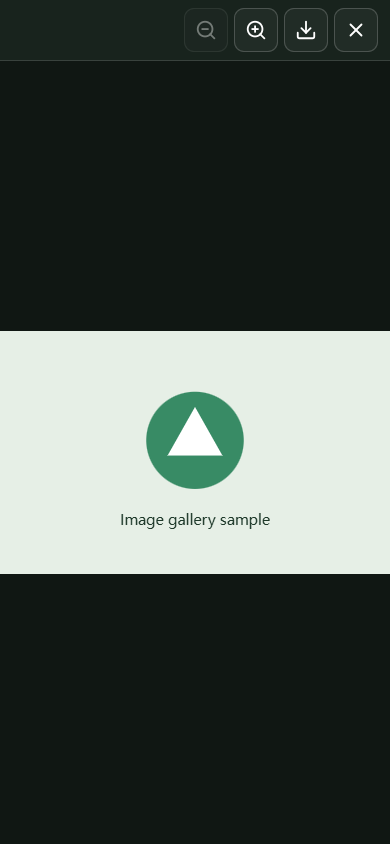
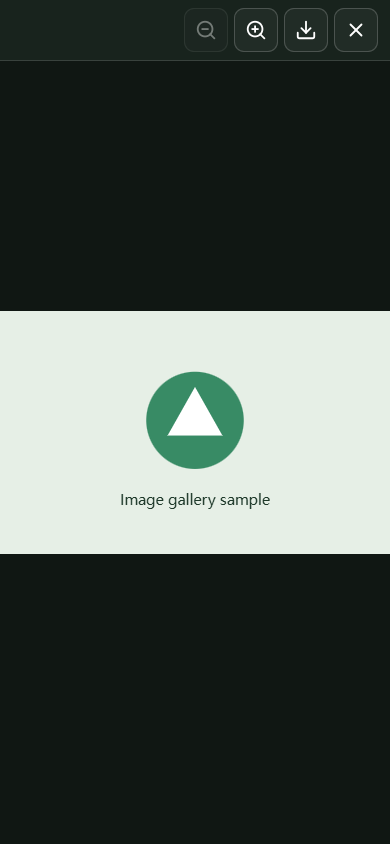
Separate speed markers and keep image controls outside the full viewport

Changed region(s): [[0.0, 0.4313, 1.0, 0.6777], [0.0, 0.3697, 1.0, 0.4005]]

diff --git a/src/lightbox.js b/src/lightbox.js
@@ -19,7 +19,7 @@ export function mountImage(image,{labels={},original=()=>image.dataset.original|
   const feedback=mediaFeedback(full,()=>{status.hidden=false;full.removeAttribute('src');full.src=source.href;},text);
   full.addEventListener('load',()=>{if(closed)return;status.hidden=true;feedback.ready();update();},{signal:events.signal});
   full.addEventListener('error',()=>{if(closed)return;status.hidden=true;feedback.failed('imageUnavailable');},{signal:events.signal});
-  full.loading='eager';full.decoding='async';full.src=source.href;
+  full.loading='eager';full.decoding='auto';full.src=source.href;
   function update(){if(scale===1)x=y=0;const ratio=(full.naturalWidth||image.naturalWidth||frame.clientWidth)/(full.naturalHeight||image.naturalHeight||frame.clientHeight),width=Math.min(frame.clientWidth,frame.clientHeight*ratio),height=width/ratio,maxX=Math.max(0,(width*scale-frame.clientWidth)/2),maxY=Math.max(0,(height*scale-frame.clientHeight)/2);maxScale=Math.max(6,(full.naturalWidth||image.naturalWidth||width)/width);x=Math.max(-maxX,Math.min(maxX,x));y=Math.max(-maxY,Math.min(maxY,y));for(const photo of frame.querySelectorAll('.image-lightbox-photo'))photo.style.transform=`translate(${x}px,${y}px) scale(${scale})`;frame.classList.toggle('is-zoomed',scale>1);out.disabled=scale===1;inside.disabled=scale>=maxScale;}
   function zoom(value){scale=Math.max(1,Math.min(maxScale,value));update();}
   frame.addEventListener('dblclick',()=>zoom(scale===1?2:1),{signal:events.signal});
@@ -27,8 +27,9 @@ export function mountImage(image,{labels={},original=()=>image.dataset.original|
   frame.addEventListener('pointerdown',event=>{if(event.target.closest('button'))return;pointers.set(event.pointerId,{x:event.clientX,y:event.clientY});frame.setPointerCapture(event.pointerId);distance=0;},{signal:events.signal});
   frame.addEventListener('pointermove',event=>{const previous=pointers.get(event.pointerId);if(!previous)return;pointers.set(event.pointerId,{x:event.clientX,y:event.clientY});if(pointers.size===2){const [a,b]=[...pointers.values()],current=Math.hypot(a.x-b.x,a.y-b.y);if(distance)zoom(scale*current/distance);distance=current;}else if(scale>1){x+=event.clientX-previous.x;y+=event.clientY-previous.y;update();}},{signal:events.signal});
   for(const name of ['pointerup','pointercancel'])frame.addEventListener(name,event=>{pointers.delete(event.pointerId);distance=0;},{signal:events.signal});
-  const cleanup=()=>{if(closed)return;closed=true;events.abort();full.removeAttribute('src');modal.remove();document.body.style.overflow=previousOverflow;document.documentElement.style.scrollbarGutter=previousGutter;if(trigger.isConnected)trigger.focus();if(close===cleanup)close=()=>{};};close=cleanup;
-  modal.addEventListener('close',cleanup,{once:true});window.addEventListener('resize',update,{signal:events.signal});update();
+  const resize=new ResizeObserver(update);resize.observe(frame);
+  const cleanup=()=>{if(closed)return;closed=true;events.abort();resize.disconnect();full.removeAttribute('src');modal.remove();document.body.style.overflow=previousOverflow;document.documentElement.style.scrollbarGutter=previousGutter;if(trigger.isConnected)trigger.focus();if(close===cleanup)close=()=>{};};close=cleanup;
+  modal.addEventListener('close',cleanup,{once:true});window.addEventListener('resize',update,{signal:events.signal});window.visualViewport?.addEventListener('resize',update,{signal:events.signal});update();
   modal.addEventListener('keydown',event=>{if(event.key!=='Tab')return;const targets=[...modal.querySelectorAll('button:not(:disabled),a[href]')].filter(node=>node.getClientRects().length);const first=targets[0],last=targets.at(-1);if(event.shiftKey&&document.activeElement===first){event.preventDefault();last?.focus();}else if(!event.shiftKey&&document.activeElement===last){event.preventDefault();first?.focus();}},{signal:events.signal});
  }
  trigger.addEventListener('click',event=>{event.preventDefault();open();},{signal});

diff --git a/src/lightbox.css b/src/lightbox.css
@@ -5,7 +5,7 @@
 .image-zoomable{cursor:zoom-in}.image-zoomable:focus-visible{outline:3px solid #388b65;outline-offset:-3px}
 a:focus-visible>.image-zoomable{outline:3px solid #388b65;outline-offset:-3px}
 .image-lightbox{position:fixed;inset:0;width:100vw;height:100dvh;max-width:none;max-height:none;margin:0;border:0;border-radius:0;padding:0;background:#101713;color:#fff;overflow:hidden;box-sizing:border-box}
-.image-lightbox[open]{display:grid;grid-template-rows:auto minmax(0,1fr)}.image-lightbox::backdrop{background:#000d}
+.image-lightbox[open]{display:grid;grid-template-rows:auto minmax(0,1fr) auto}.image-lightbox::backdrop{background:#000d}
 .image-lightbox-toolbar{display:flex;align-items:center;gap:6px;padding:8px max(12px,env(safe-area-inset-right)) 8px max(12px,env(safe-area-inset-left));border-bottom:1px solid #ffffff24;background:#18231d;z-index:1}
 .image-lightbox-title{flex:1;min-width:0;white-space:nowrap;overflow:hidden;text-overflow:ellipsis;font:500 14px system-ui}
 .image-lightbox-toolbar button,.image-lightbox-save{display:grid;place-items:center;width:44px;height:44px;min-width:44px;min-height:44px;flex-shrink:0;border:1px solid #ffffff30;background:#ffffff0a;color:white;border-radius:10px;padding:0;font:24px system-ui;cursor:pointer;text-decoration:none;box-sizing:border-box}
@@ -13,7 +13,8 @@ a:focus-visible>.image-zoomable{outline:3px solid #388b65;outline-offset:-3px}
 .image-lightbox-toolbar svg,.media-feedback-icon svg{width:22px;height:22px;pointer-events:none}
 .image-lightbox-toolbar button:disabled{opacity:.4;cursor:default}
 .image-lightbox-frame{position:relative;overflow:hidden;display:grid;place-items:center;touch-action:none;min-width:0;min-height:0;cursor:zoom-in}.image-lightbox-frame.is-zoomed{cursor:grab}.image-lightbox-frame.is-zoomed:active{cursor:grabbing}
-.image-lightbox-photo{display:block;position:absolute;width:100%;height:100%;object-fit:contain;max-width:none;max-height:none;transform-origin:center;user-select:none}
+.image-lightbox .image-lightbox-photo{display:block;position:absolute;inset:0;width:100%;height:100%;object-fit:contain;object-position:center;box-sizing:border-box;margin:0;padding:0;border:0;max-width:none;max-height:none;transform-origin:center;user-select:none}
 .image-lightbox-frame .media-feedback{position:relative;z-index:1;max-width:360px;margin:20px}
-.image-lightbox-status{position:absolute;left:50%;bottom:max(20px,env(safe-area-inset-bottom));transform:translateX(-50%);padding:8px 16px;border-radius:20px;background:#101713cc;color:white;font:14px system-ui;pointer-events:none}
+.image-lightbox-status{display:block;min-height:40px;margin:0;padding:8px 16px max(8px,env(safe-area-inset-bottom));text-align:center;box-sizing:border-box;color:white;font:14px/24px system-ui;pointer-events:none}
+.image-lightbox .image-lightbox-status[hidden]{display:block!important;visibility:hidden}
 @media(max-width:480px){.image-lightbox-title{display:none}.image-lightbox-toolbar{justify-content:flex-end;padding-top:max(8px,env(safe-area-inset-top))}}

diff --git a/src/styles.css b/src/styles.css
@@ -24,6 +24,14 @@
 .media-player.plyr .plyr__progress input[type=range]{min-height:32px}
 .media-player.plyr .plyr__volume input[type=range]{width:65px}
 .media-player.plyr .plyr__menu__container{max-width:calc(100vw - 32px)}
+.media-player.plyr .plyr__menu__container .plyr__control{justify-content:flex-start;gap:0}
+.media-player.plyr .plyr__menu__container .plyr__control[role=menuitemradio]{display:grid;grid-template-columns:16px minmax(0,1fr);column-gap:12px;padding:10px 12px;text-align:start}
+.media-player.plyr .plyr__menu__container .plyr__control[role=menuitemradio]::before{grid-column:1;grid-row:1;margin:0;width:16px;height:16px}
+.media-player.plyr .plyr__menu__container .plyr__control[role=menuitemradio]>span{grid-column:2;grid-row:1;width:auto;min-width:0}
+.media-player.plyr .plyr__menu__container .plyr__control[role=menuitemradio]::after{left:auto;right:auto;inset-inline-start:17px}
+.media-player.plyr .plyr__menu__container .plyr__control--back{padding-inline-start:36px}
+.media-player.plyr .plyr__menu__container .plyr__control--forward{padding-inline-end:36px}
+.media-player.plyr .plyr__menu__container [role=menu]{max-height:min(360px,calc(100dvh - 160px));overflow-y:auto;overscroll-behavior:contain}
 .media-player.plyr:fullscreen,.media-player.plyr.plyr--fullscreen-fallback{height:100%;max-height:none;aspect-ratio:auto;border-radius:0}
 .media-player.plyr:fullscreen .plyr__video-wrapper,.media-player.plyr.plyr--fullscreen-fallback .plyr__video-wrapper{height:100%;max-height:none;aspect-ratio:auto}
 .media-player.plyr:fullscreen video,.media-player.plyr.plyr--fullscreen-fallback video{height:100%;max-height:none}

diff --git a/AGENTS.md b/AGENTS.md
@@ -6,6 +6,7 @@
 - Image sources and lazy loading are supplied by the integrating app. Do not replace an explicit original with an optimized preview. The lightbox loads and displays only its requested original, including when the trigger image has not loaded yet. The close and save controls belong in the lightbox toolbar, outside the picture. All pictures follow the caller's consent and CSP without provider categories.
 - Support touch, focused keyboard control, visible loading/error states, English and both Chinese locales. Preserve native reduced-motion behavior without weakening ordinary feedback.
 - Verify controls are clickable at 320 px and desktop sizes, including menus and fullscreen. Keep mobile progress on its own row.
+- Reserve separate geometry for speed-radio markers and labels, even under host button styles. Keep image toolbar/status outside the photo; observe the actual frame size and fit all image edges before zooming.
 - Tests are local browser fixtures, never production uploads. Keep unrelated workspace changes intact.
 
 - Size controls using the player container, not only the viewport. The seek range must fill its row, current and total duration remain visible, and optional supplied duration/poster are displayed before playback without fetching video segments.

diff --git a/README.md b/README.md
@@ -8,6 +8,7 @@ Reusable image lightboxes, mixed galleries and adaptive video players built with
 - Zoom, wheel/pinch, pan and reset; original saving lives in the lightbox toolbar, outside the picture.
 - Opens content images, subject to your application's consent and CSP.
 - Local icons, no CDN, no telemetry or persisted preferences; keyboard, touch and English / both Chinese locales.
+- Speed menus reserve separate space for the selection marker and number. The image viewer keeps its toolbar and loading status outside the picture, fits the full frame and readjusts when the available viewport changes.
 
 [中文说明](docs/zh-cn.md) | [Used by ishare](https://ishare.js.gripe)
 
